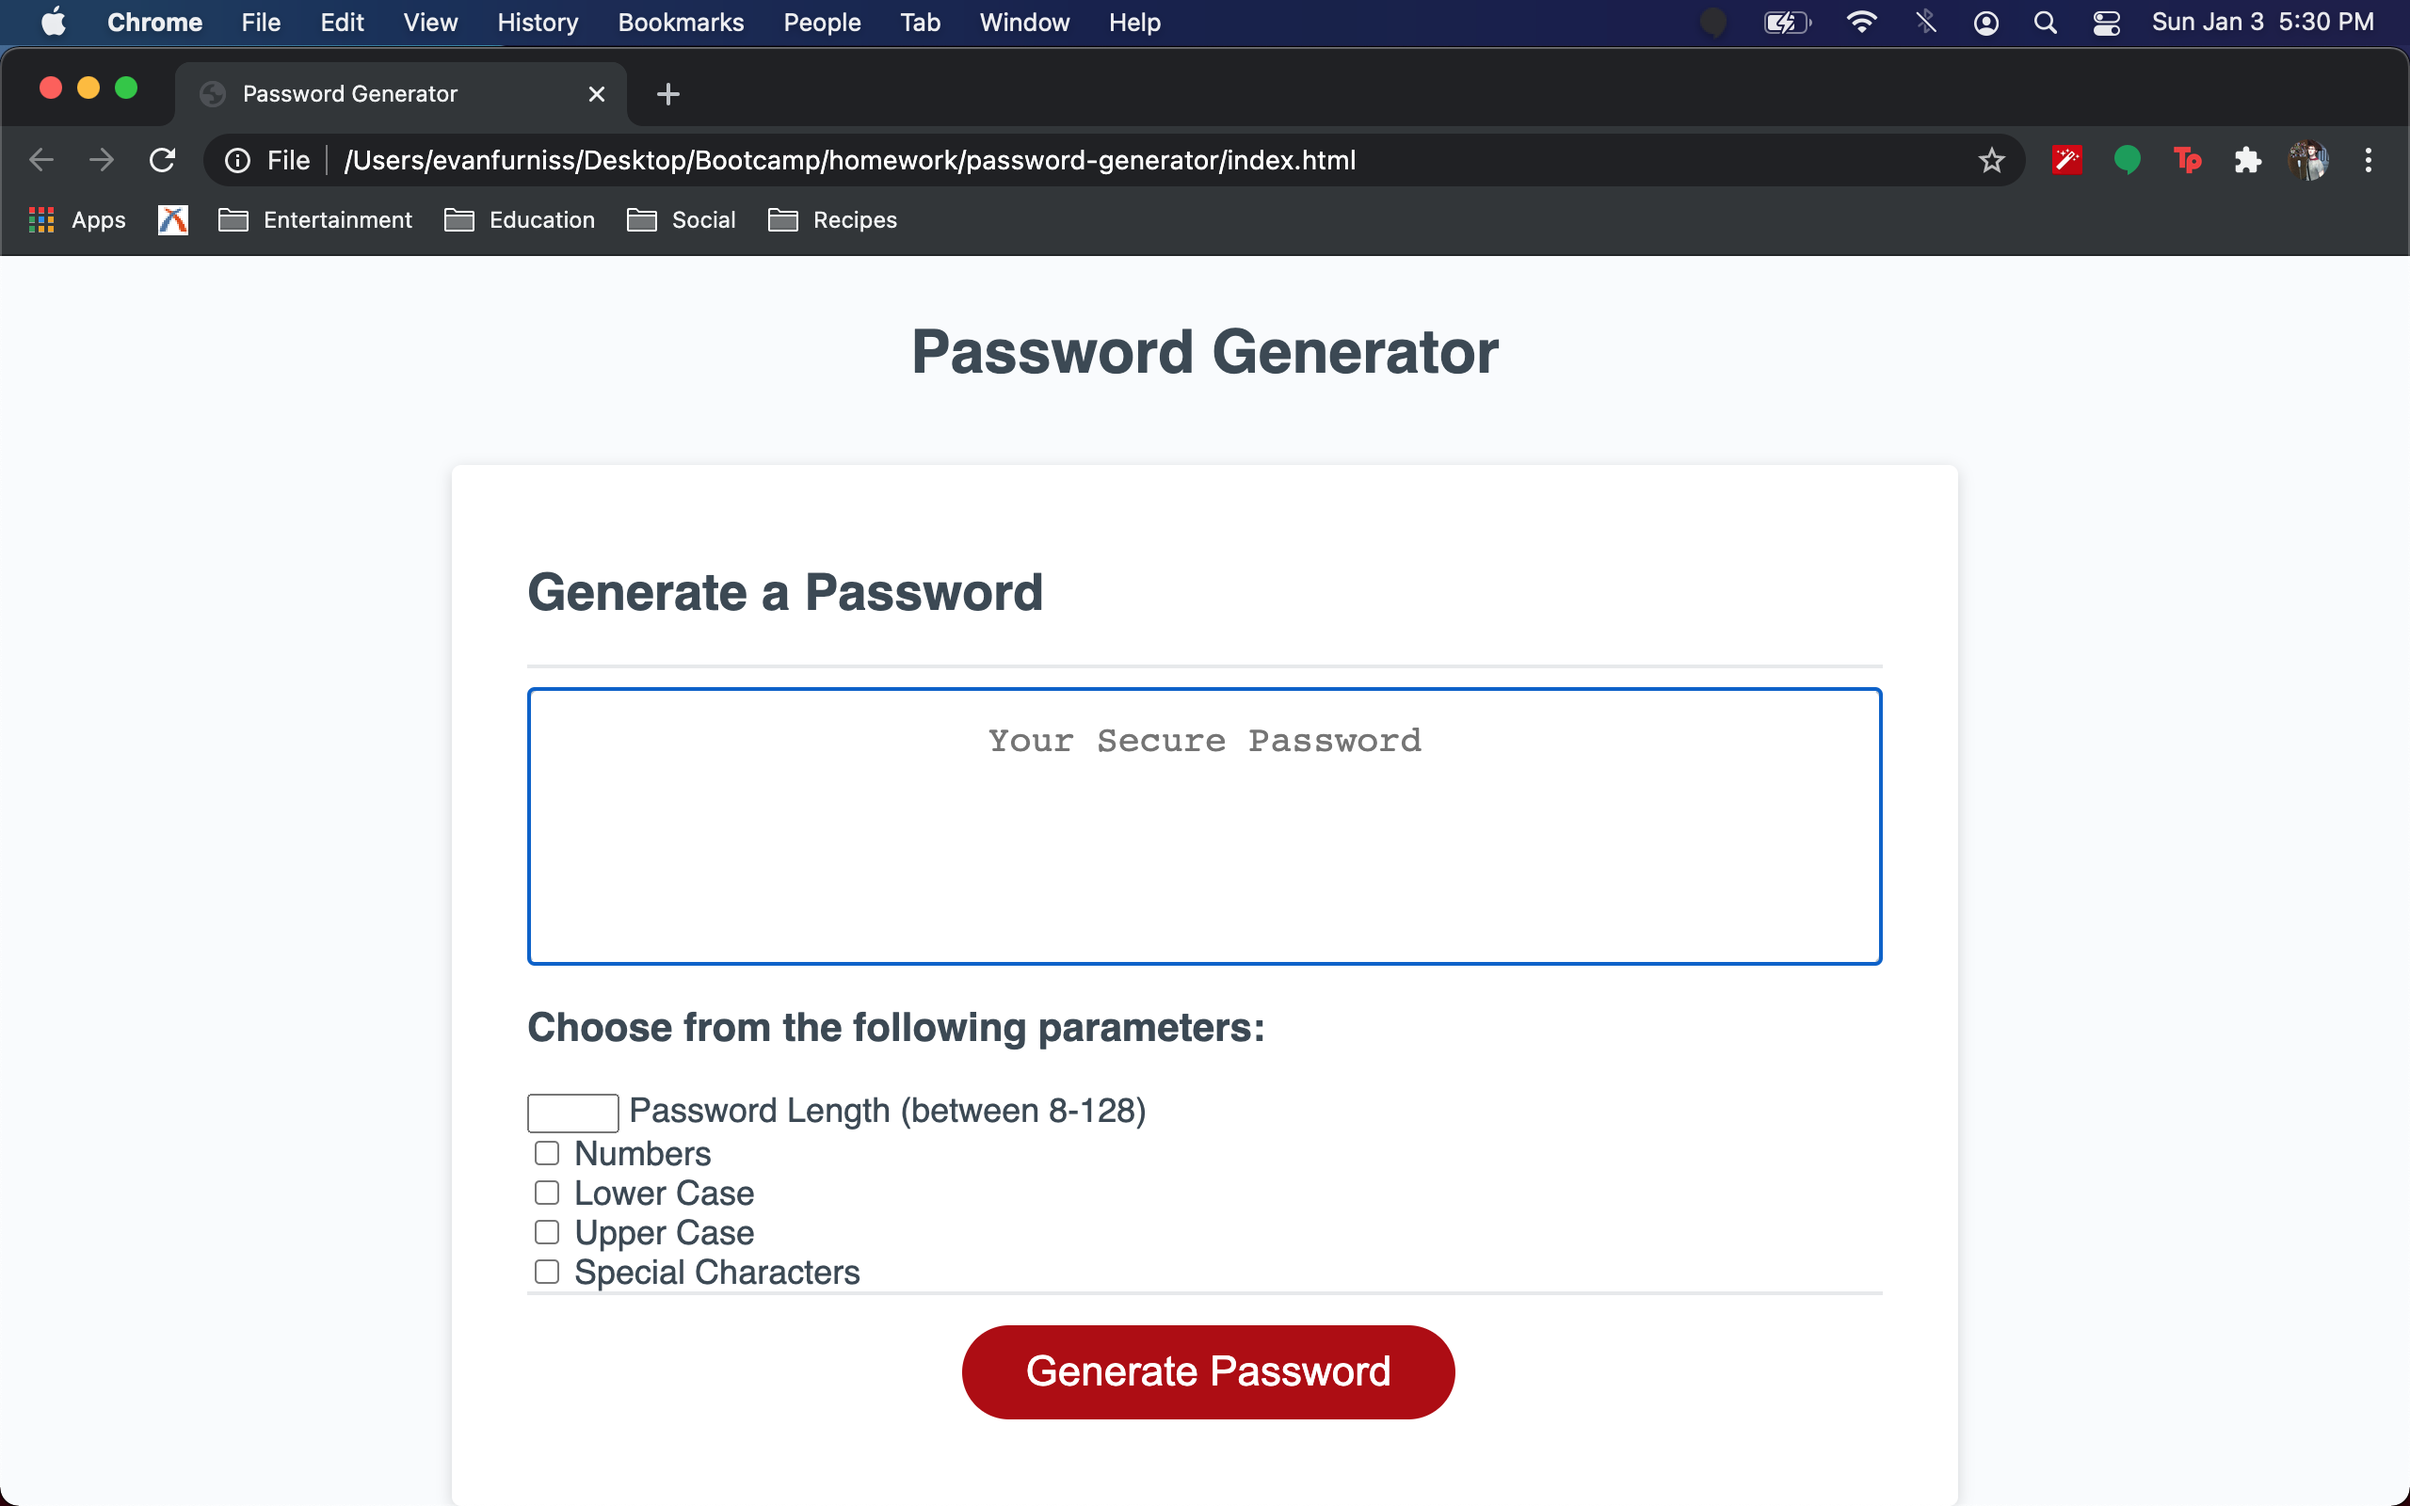
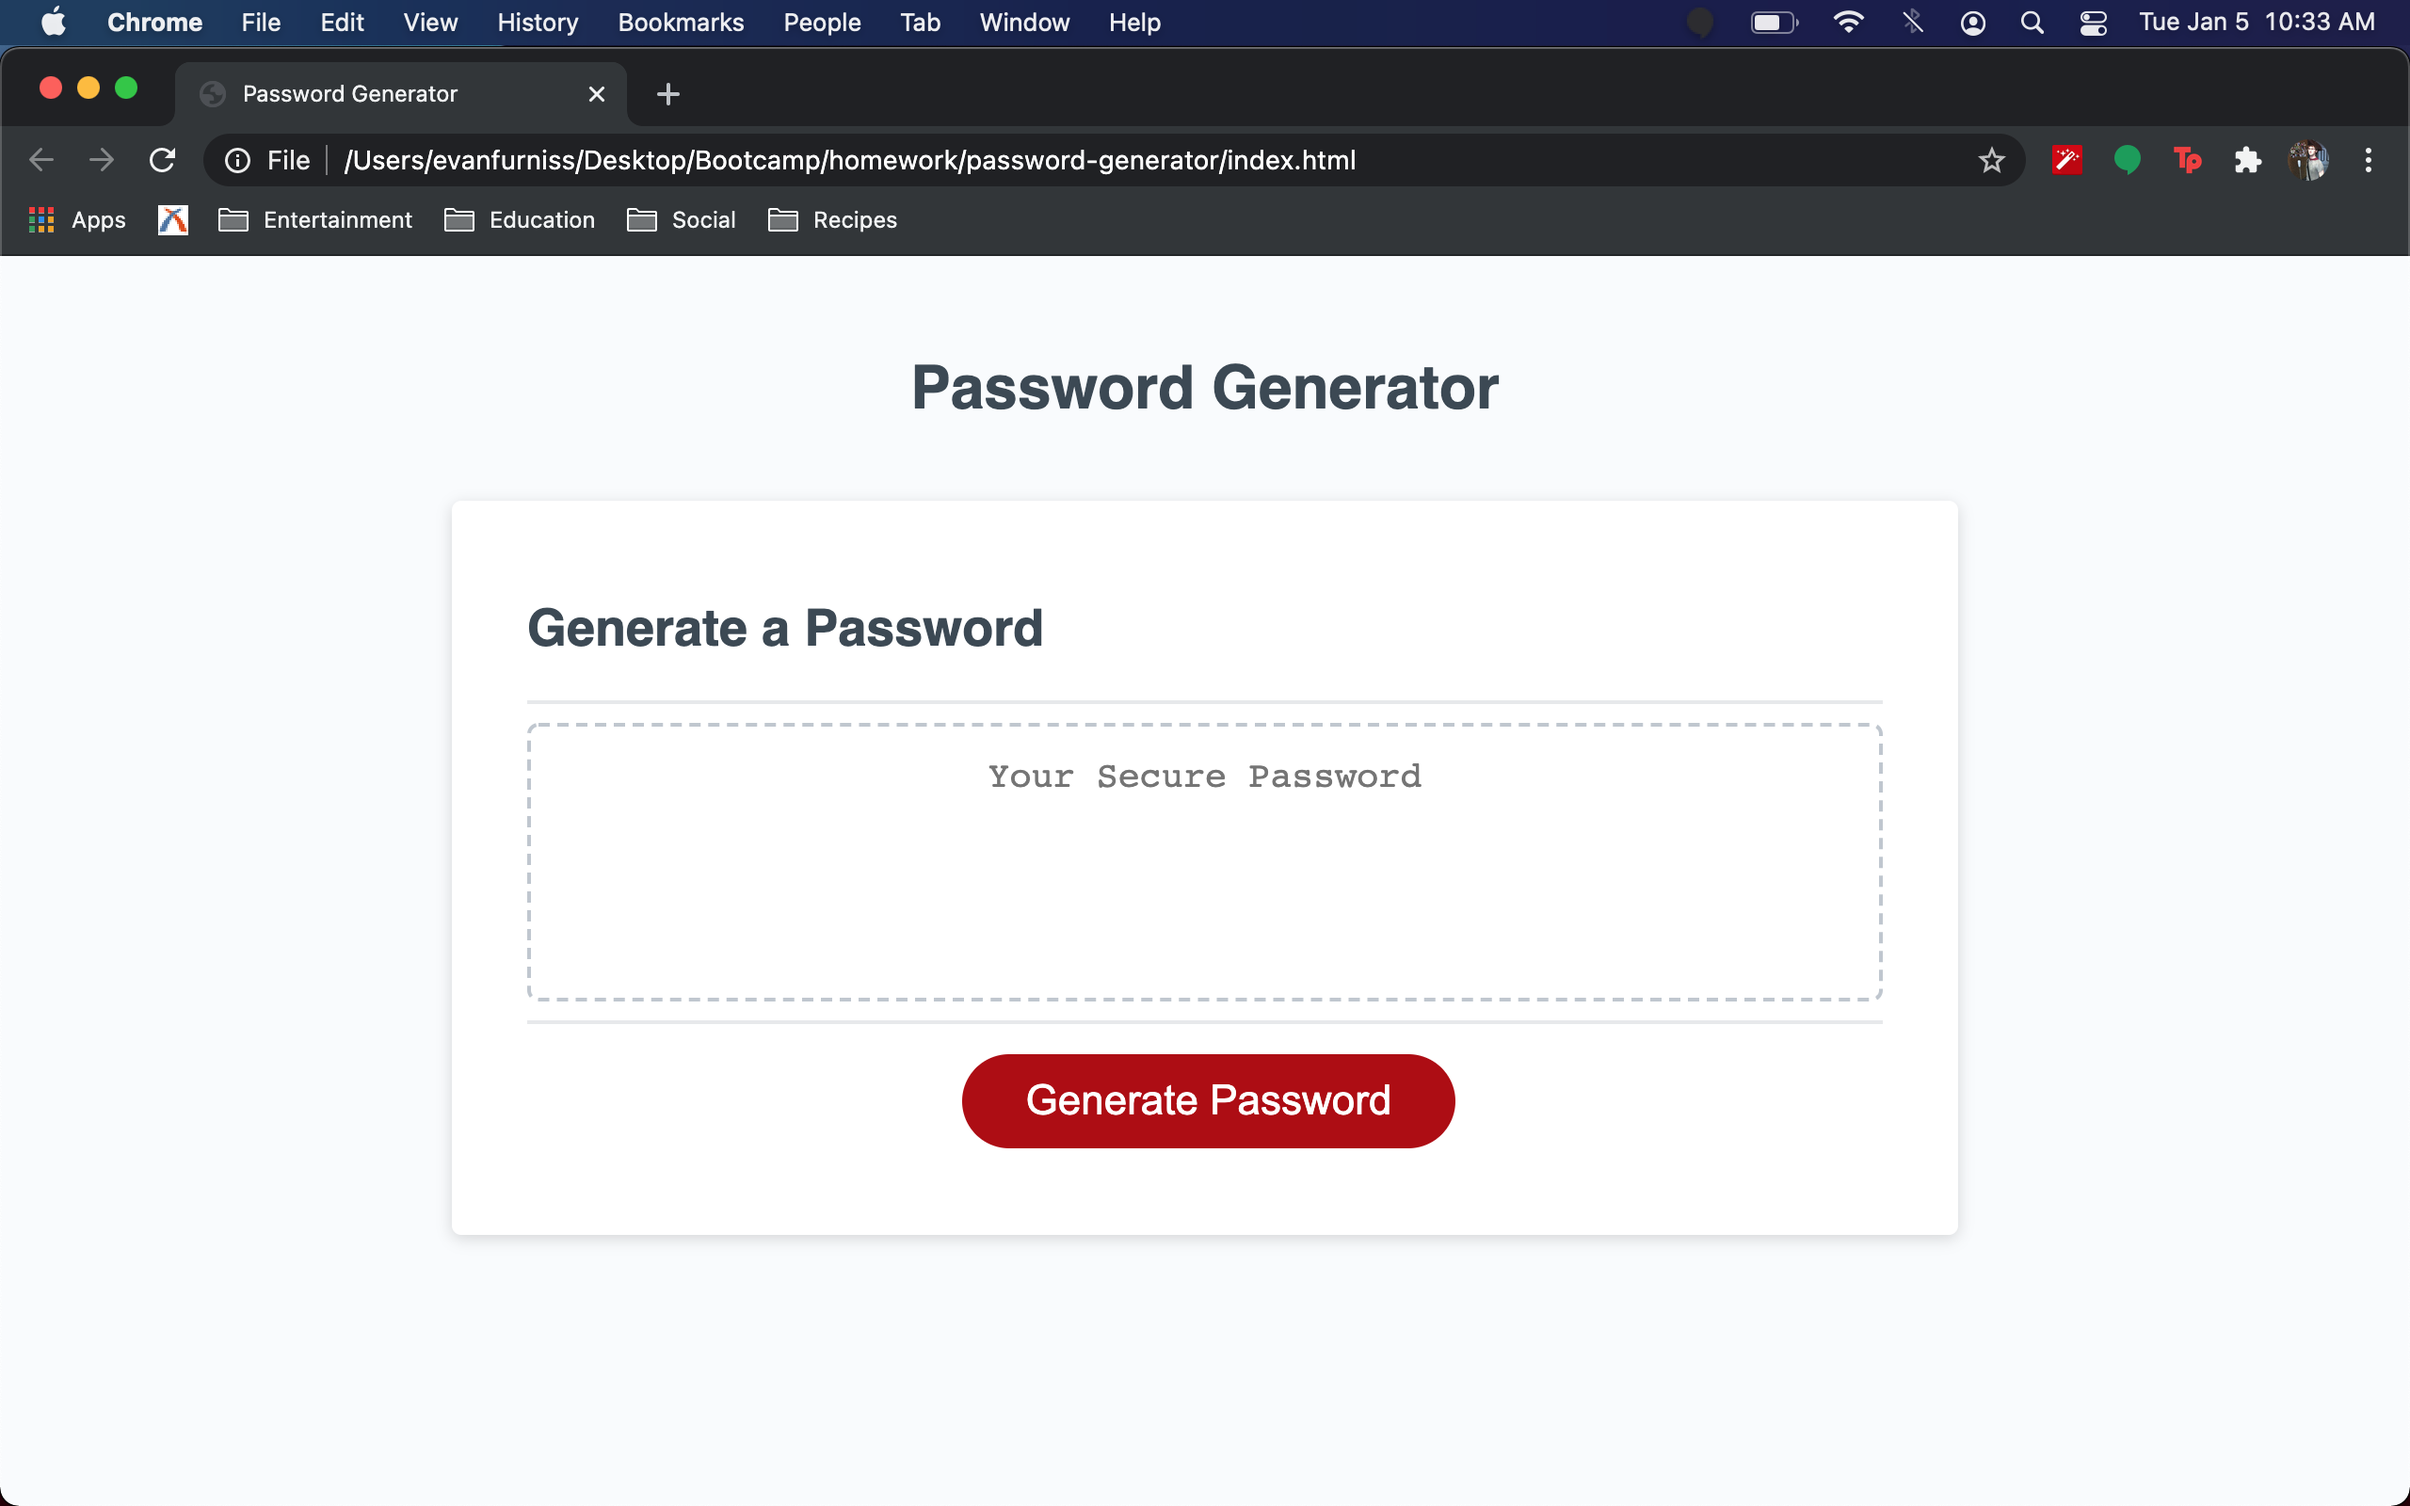
Updated project to operate based on the business side's specifications. Updated images, commented out HTML form and js that checked the form, modified function to ask parameters using prompts/confirms.

diff --git a/script.js b/script.js
@@ -1,4 +1,3 @@
-// Assignment Code
 var generateBtn = document.querySelector("#generate");
 var createBtn = document.querySelector("#createBtn");
 
@@ -7,7 +6,6 @@ var letterLwrArr = ["a", "b", "c", "d", "e", "f", "g", "h", "i", "j", "k", "l", 
 var letterUprArr = ["A", "B", "C", "D", "E", "F", "G", "H", "I", "J", "K", "L", "M", "N", "O", "P", "Q", "R", "S", "T", "U", "V", "W", "X", "Y", "Z"];
 var specialCharArr = ["!", "?", "@", "$", "%", "&", "*"];
 
-// Write password to the #password input
 function writePassword() {
   var password = generatePassword();
   var passwordText = document.querySelector("#password");
@@ -15,20 +13,28 @@ function writePassword() {
   function generatePassword() {
     var pushPassword = "";
     var characterArr = [];
+    var passLength = prompt("Choose a password length between 8-128");
 
-    if (document.querySelector("#includeNum").checked) {
+    if (passLength < 8 || passLength > 128) {
+      passLength = prompt("Value out of range. Choose a number between 8-128");
+    }
+    else if (isNaN(passLength)) {
+      passLength = prompt("Value is not a number. Choose a number between 8-128.");
+    }
+
+    if (confirm("Click OK to include numbers")) {
       characterArr = characterArr.concat(numArr);
     }
-    if (document.querySelector("#lwrCase").checked) {
+    if (confirm("Click OK to include lower case letters")) {
       characterArr = characterArr.concat(letterLwrArr);
     }
-    if (document.querySelector("#uprCase").checked) {
+    if (confirm("Click OK to include upper case letters")) {
       characterArr = characterArr.concat(letterUprArr);
     }
-    if (document.querySelector("#speChars").checked) {
+    if (confirm("Click OK to include special characters")) {
       characterArr = characterArr.concat(specialCharArr);
     }
-    for (let i = 0; i < document.querySelector("#passLength").value; i++) {
+    for (let i = 0; i < passLength; i++) {
       var ranArrSelector = Math.floor(Math.random() * characterArr.length);
 
       pushPassword += characterArr[ranArrSelector];
@@ -36,8 +42,30 @@ function writePassword() {
     return pushPassword;
   }
 
+  // NOTE: Uncomment this and the div tag of the HTML to use check boxes instead of prompts.
+  //       Below is a usable code to use checkboxes on the screen.  
+  //
+  //   if (document.querySelector("#includeNum").checked) {
+  //     characterArr = characterArr.concat(numArr);
+  //   }
+  //   if (document.querySelector("#lwrCase").checked) {
+  //     characterArr = characterArr.concat(letterLwrArr);
+  //   }
+  //   if (document.querySelector("#uprCase").checked) {
+  //     characterArr = characterArr.concat(letterUprArr);
+  //   }
+  //   if (document.querySelector("#speChars").checked) {
+  //     characterArr = characterArr.concat(specialCharArr);
+  //   }
+  //   for (let i = 0; i < document.querySelector("#passLength").value; i++) {
+  //     var ranArrSelector = Math.floor(Math.random() * characterArr.length);
+  //
+  //     pushPassword += characterArr[ranArrSelector];
+  //   }
+  //   return pushPassword;
+  // }
+
   passwordText.value = password;
 }
 
-// Add event listener to generate button
 generateBtn.addEventListener("click", writePassword);

diff --git a/index.html b/index.html
@@ -24,7 +24,10 @@
             aria-label="Generated Password"
           ></textarea>
         </div>
-        <div>
+        <!-- 
+          NOTE: Uncommenting this div and the commented section of script.js will allow the user to use checkboxes to determine the perameters.
+
+          <div>
           <h3>Choose from the following parameters:</h3>
           <form>
             <input type="number" id="passLength" name="passLength" min="8" max="128">
@@ -38,7 +41,9 @@
             <input type="checkbox" id="speChars" name="speChars">
             <label for="speChars"> Special Characters</label><br>
           </form>
-        </div>
+        </div> 
+      
+      -->
         <div class="card-footer">
           <button id="generate" class="btn">Generate Password</button>
         </div>

diff --git a/README.md b/README.md
@@ -2,9 +2,9 @@
 
 ## Overview
 
-This project creates a randomly generated password of the users choosing. Users can select the requirements for the password including length, numbers, lower case letters, upper case letters, and special characters. Once the users's selected length and characters are filled, users will click the "Generate Password" button, which will generate their random password and display it in the text area. 
+This project creates a randomly generated password of the users choosing. Users can select the requirements for the password including length, numbers, lower case letters, upper case letters, and special characters by answering prompts/confirms to choose parameters. Users will click the "Generate Password" button, which gives the user several prompts/confirms listed above, which will generate their random password using those answers, and display it in the text area. 
 
-The password generator uses JavaScript as the primary language to create and run functions that will take users' requirements and modify the elements on the HTML and CSS files. The password is created using the random math functions, for loops, if/else statements, dev created functions, and runs using eventListeners.
+The password generator uses JavaScript as the primary language to create and run functions that will take users' requirements and modify the elements on the HTML file. The password is created using the random math functions, for loops, prompts/confirms, if/else statements, dev created functions, and runs using eventListeners.
 
 Users can utilize this tool to quickly create secure passwords while creating accounts, updating old passwords, or adding a level of security they may not have had otherwise.
 
@@ -22,6 +22,8 @@ https://evanfurniss.github.io/password-generator/
 
 <img src="pics/base.png">
 <br>
-<img src="pics/min-success.png">
+<img src="pics/prompt.png">
 <br>
-<img src="pics/max-success.png">
+<img src="pics/min-value.png">
+<br>
+<img src="pics/max-value.png">
